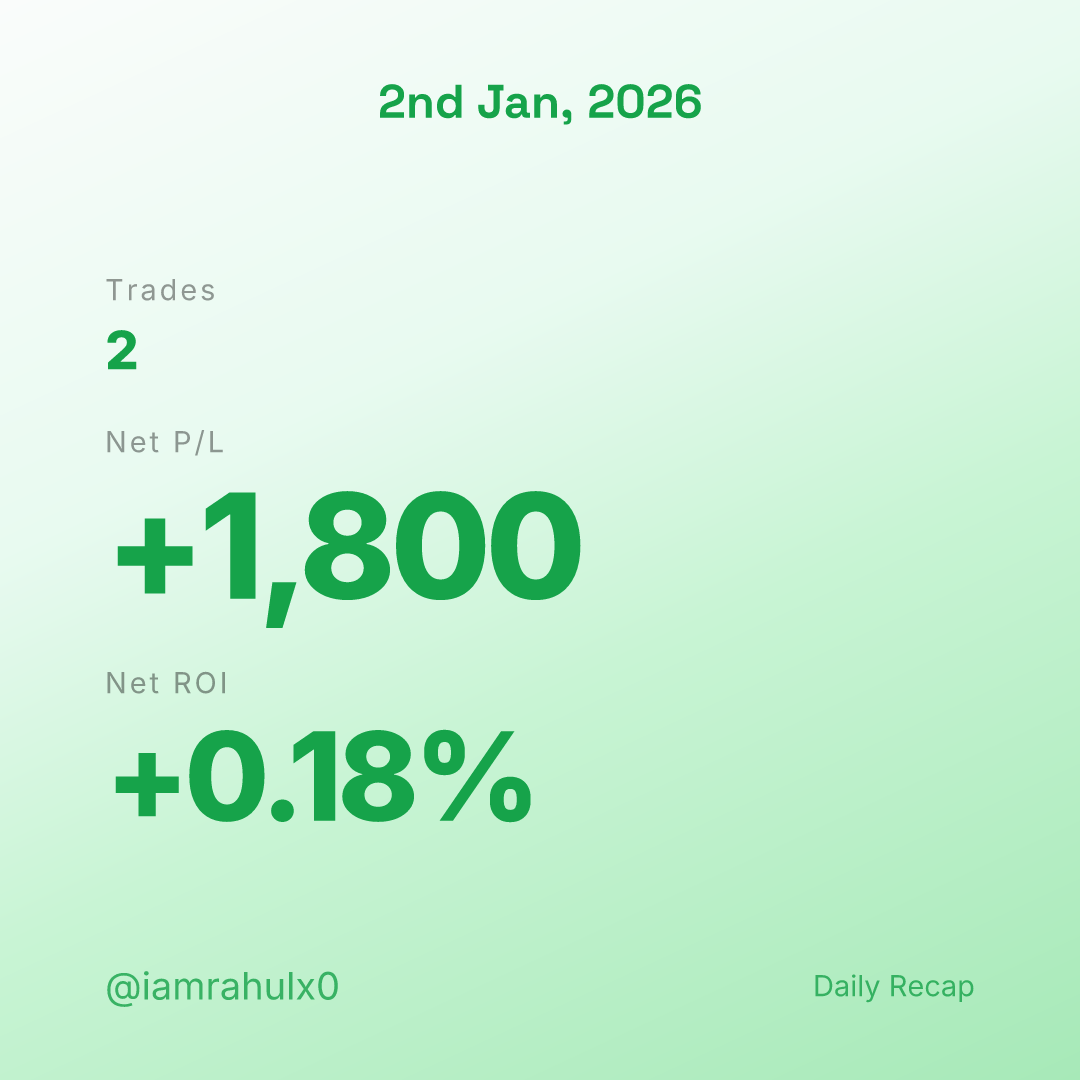
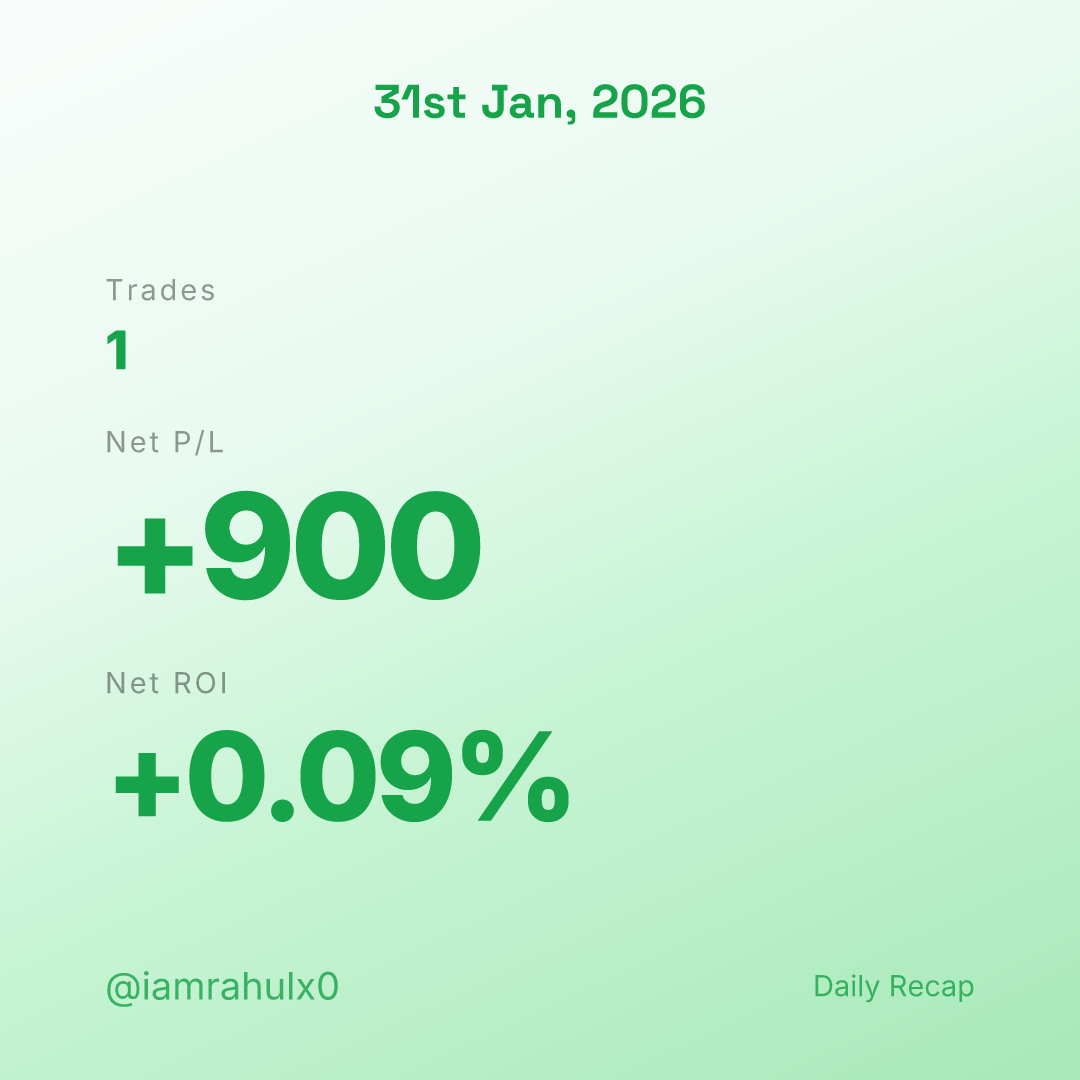
Pnl Card branding, promo demo data, loading animation, Profit/Loss toggle for mobile
- Remove pill wrapper from Pnl Card footer on OG cards (plain accent text)
- Use demo data for promo images (Jan 2026 profit, Dec 2025 loss)
- Card loading: green animation for profit, neutral for loss
- Add Profit/Loss toggle on trade form for mobile (no minus key needed)

diff --git a/components/dashboard/card-preview-modal.tsx b/components/dashboard/card-preview-modal.tsx
@@ -264,6 +264,18 @@ export function CardPreviewModal({
     (cardType === "weekly" && weeklyParams != null) ||
     (cardType === "monthly" && monthlyParams != null);
 
+  const isProfit = useMemo(() => {
+    const pnlStr =
+      cardType === "daily"
+        ? dailyParams?.netPnl
+        : cardType === "weekly"
+          ? weeklyParams?.pnl
+          : monthlyParams?.pnl;
+    if (!pnlStr) return true;
+    const num = parseFloat(pnlStr.replace(/[^0-9.\-]/g, "")) || 0;
+    return num >= 0;
+  }, [cardType, dailyParams?.netPnl, weeklyParams?.pnl, monthlyParams?.pnl]);
+
   if (!isReady) return null;
 
   const title =
@@ -333,16 +345,34 @@ export function CardPreviewModal({
         {/* Card image */}
         <div className="px-5 pb-4">
           <div className="relative rounded-xl overflow-hidden border border-border shadow-sm bg-muted/30 min-h-[200px]">
-            {/* Loading state: shimmer + sparkle */}
+            {/* Loading state: green for profit, neutral for loss */}
             {imgSrc && !imgLoaded && !imgError && (
               <div
-                className="absolute inset-0 flex flex-col items-center justify-center gap-4 bg-gradient-to-br from-slate-50 via-white to-emerald-50/30"
+                className={`absolute inset-0 flex flex-col items-center justify-center gap-4 ${
+                  isProfit
+                    ? "bg-gradient-to-br from-slate-50 via-white to-emerald-50/30"
+                    : "bg-gradient-to-br from-slate-50 via-white to-slate-100/50"
+                }`}
                 aria-hidden="true"
               >
                 <div className="relative">
-                  <div className="absolute inset-0 animate-ping rounded-full bg-emerald-200/40" />
-                  <div className="relative flex h-14 w-14 items-center justify-center rounded-full bg-gradient-to-br from-emerald-100 to-emerald-50 shadow-inner">
-                    <Sparkles className="h-7 w-7 text-emerald-600 animate-pulse" />
+                  <div
+                    className={`absolute inset-0 animate-ping rounded-full ${
+                      isProfit ? "bg-emerald-200/40" : "bg-slate-200/40"
+                    }`}
+                  />
+                  <div
+                    className={`relative flex h-14 w-14 items-center justify-center rounded-full shadow-inner ${
+                      isProfit
+                        ? "bg-gradient-to-br from-emerald-100 to-emerald-50"
+                        : "bg-gradient-to-br from-slate-100 to-slate-50"
+                    }`}
+                  >
+                    <Sparkles
+                      className={`h-7 w-7 animate-pulse ${
+                        isProfit ? "text-emerald-600" : "text-slate-500"
+                      }`}
+                    />
                   </div>
                 </div>
                 <div className="space-y-2 text-center">
@@ -350,7 +380,11 @@ export function CardPreviewModal({
                     Generating your card
                   </p>
                   <div className="mx-auto h-1 w-24 overflow-hidden rounded-full bg-muted">
-                    <div className="h-full w-8 animate-shimmer rounded-full bg-emerald-400/70" />
+                    <div
+                      className={`h-full w-8 animate-shimmer rounded-full ${
+                        isProfit ? "bg-emerald-400/70" : "bg-slate-400/60"
+                      }`}
+                    />
                   </div>
                 </div>
               </div>

diff --git a/components/dashboard/trade-entry-modal.tsx b/components/dashboard/trade-entry-modal.tsx
@@ -382,6 +382,38 @@ export function TradeEntryModal({
 
             <div className="space-y-3">
               <Label htmlFor="net_pnl">P&L ({symbol}) *</Label>
+              <div className="flex gap-2">
+                <button
+                  type="button"
+                  onClick={() => {
+                    const raw = form.net_pnl.replace(/-/g, "").replace(/,/g, "");
+                    const abs = raw === "" || raw === "." ? "" : raw;
+                    setForm((f) => ({ ...f, net_pnl: abs }));
+                  }}
+                  className={`flex-1 rounded-lg border px-3 py-2 text-sm font-medium transition-colors ${
+                    !form.net_pnl.startsWith("-") && form.net_pnl !== ""
+                      ? "border-emerald-500 bg-emerald-50 text-emerald-700 dark:bg-emerald-950/40 dark:text-emerald-400"
+                      : "border-border bg-muted/30 text-muted-foreground hover:bg-muted/50"
+                  }`}
+                >
+                  Profit
+                </button>
+                <button
+                  type="button"
+                  onClick={() => {
+                    const raw = form.net_pnl.replace(/-/g, "").replace(/,/g, "");
+                    const abs = raw === "" || raw === "." ? "" : raw;
+                    setForm((f) => ({ ...f, net_pnl: abs ? `-${abs}` : "-" }));
+                  }}
+                  className={`flex-1 rounded-lg border px-3 py-2 text-sm font-medium transition-colors ${
+                    form.net_pnl.startsWith("-")
+                      ? "border-red-500 bg-red-50 text-red-700 dark:bg-red-950/40 dark:text-red-400"
+                      : "border-border bg-muted/30 text-muted-foreground hover:bg-muted/50"
+                  }`}
+                >
+                  Loss
+                </button>
+              </div>
               <Input
                 id="net_pnl"
                 type="text"
@@ -394,8 +426,11 @@ export function TradeEntryModal({
                     net_pnl: stripToNumberString(e.target.value, true),
                   }))
                 }
-                placeholder="e.g. 1,500.50 or -500"
+                placeholder="e.g. 1,500.50"
               />
+              <p className="text-xs text-muted-foreground">
+                Tap Profit or Loss, then enter the amount (no minus key needed on mobile).
+              </p>
             </div>
 
             <div className="space-y-3">

diff --git a/app/api/og/daily/route.tsx b/app/api/og/daily/route.tsx
@@ -178,22 +178,8 @@ export async function GET(request: Request) {
 
     // --- Watermark left side ---
     const watermarkLeft = !handle ? (
-      <div
-        style={{
-          display: "flex",
-          alignItems: "center",
-          paddingLeft: Math.round(14 * S),
-          paddingRight: Math.round(14 * S),
-          paddingTop: Math.round(6 * S),
-          paddingBottom: Math.round(6 * S),
-          borderRadius: 9999,
-          background: s.logoBg,
-          border: `${Math.round(1 * S)}px solid ${s.logoBorder}`,
-        }}
-      >
-        <div style={{ display: "flex", fontSize: Math.round(10 * S), color: s.footerText, fontWeight: 700, letterSpacing: "-0.02em" }}>
-          {"Pnl Card"}
-        </div>
+      <div style={{ display: "flex", fontSize: Math.round(10 * S), color: s.footerText, fontWeight: 700, letterSpacing: "-0.02em" }}>
+        {"Pnl Card"}
       </div>
     ) : (
       <div style={{ display: "flex", fontSize: Math.round(13 * S), color: s.footerText, fontWeight: 500 }}>

diff --git a/app/api/og/monthly/route.tsx b/app/api/og/monthly/route.tsx
@@ -280,22 +280,8 @@ export async function GET(request: Request) {
 
     // --- Watermark ---
     const watermarkLeft = !handle ? (
-      <div
-        style={{
-          display: "flex",
-          alignItems: "center",
-          paddingLeft: Math.round(14 * S),
-          paddingRight: Math.round(14 * S),
-          paddingTop: Math.round(6 * S),
-          paddingBottom: Math.round(6 * S),
-          borderRadius: 9999,
-          background: s.logoBg,
-          border: `${Math.round(1 * S)}px solid ${s.logoBorder}`,
-        }}
-      >
-        <div style={{ display: "flex", fontSize: Math.round(10 * S), color: s.footerText, fontWeight: 700, letterSpacing: "-0.02em" }}>
-          {"Pnl Card"}
-        </div>
+      <div style={{ display: "flex", fontSize: Math.round(10 * S), color: s.footerText, fontWeight: 700, letterSpacing: "-0.02em" }}>
+        {"Pnl Card"}
       </div>
     ) : (
       <div style={{ display: "flex", fontSize: Math.round(13 * S), color: s.footerText, fontWeight: 500 }}>

diff --git a/app/api/og/weekly/route.tsx b/app/api/og/weekly/route.tsx
@@ -248,22 +248,8 @@ export async function GET(request: Request) {
 
     // --- Watermark ---
     const watermarkLeft = !handle ? (
-      <div
-        style={{
-          display: "flex",
-          alignItems: "center",
-          paddingLeft: Math.round(14 * S),
-          paddingRight: Math.round(14 * S),
-          paddingTop: Math.round(6 * S),
-          paddingBottom: Math.round(6 * S),
-          borderRadius: 9999,
-          background: s.logoBg,
-          border: `${Math.round(1 * S)}px solid ${s.logoBorder}`,
-        }}
-      >
-        <div style={{ display: "flex", fontSize: Math.round(10 * S), color: s.footerText, fontWeight: 700, letterSpacing: "-0.02em" }}>
-          {"Pnl Card"}
-        </div>
+      <div style={{ display: "flex", fontSize: Math.round(10 * S), color: s.footerText, fontWeight: 700, letterSpacing: "-0.02em" }}>
+        {"Pnl Card"}
       </div>
     ) : (
       <div style={{ display: "flex", fontSize: Math.round(13 * S), color: s.footerText, fontWeight: 500 }}>
